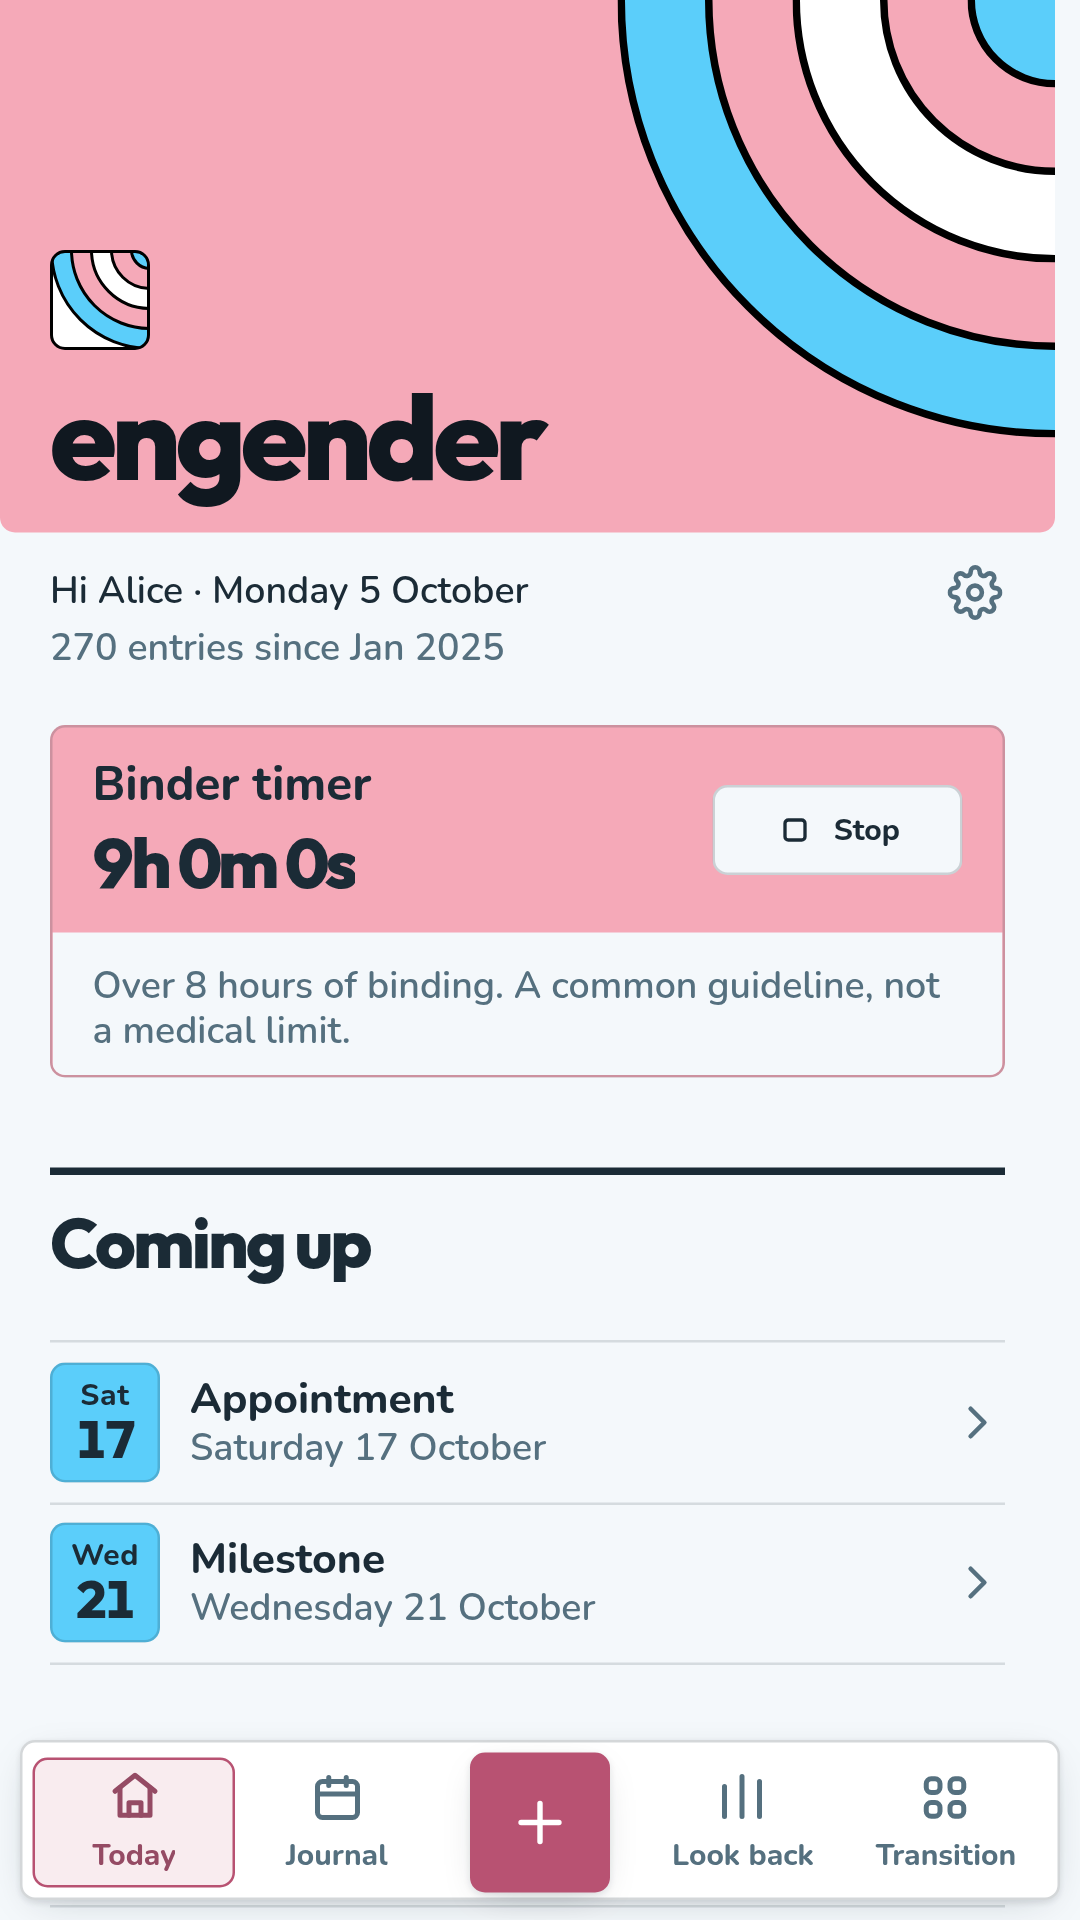
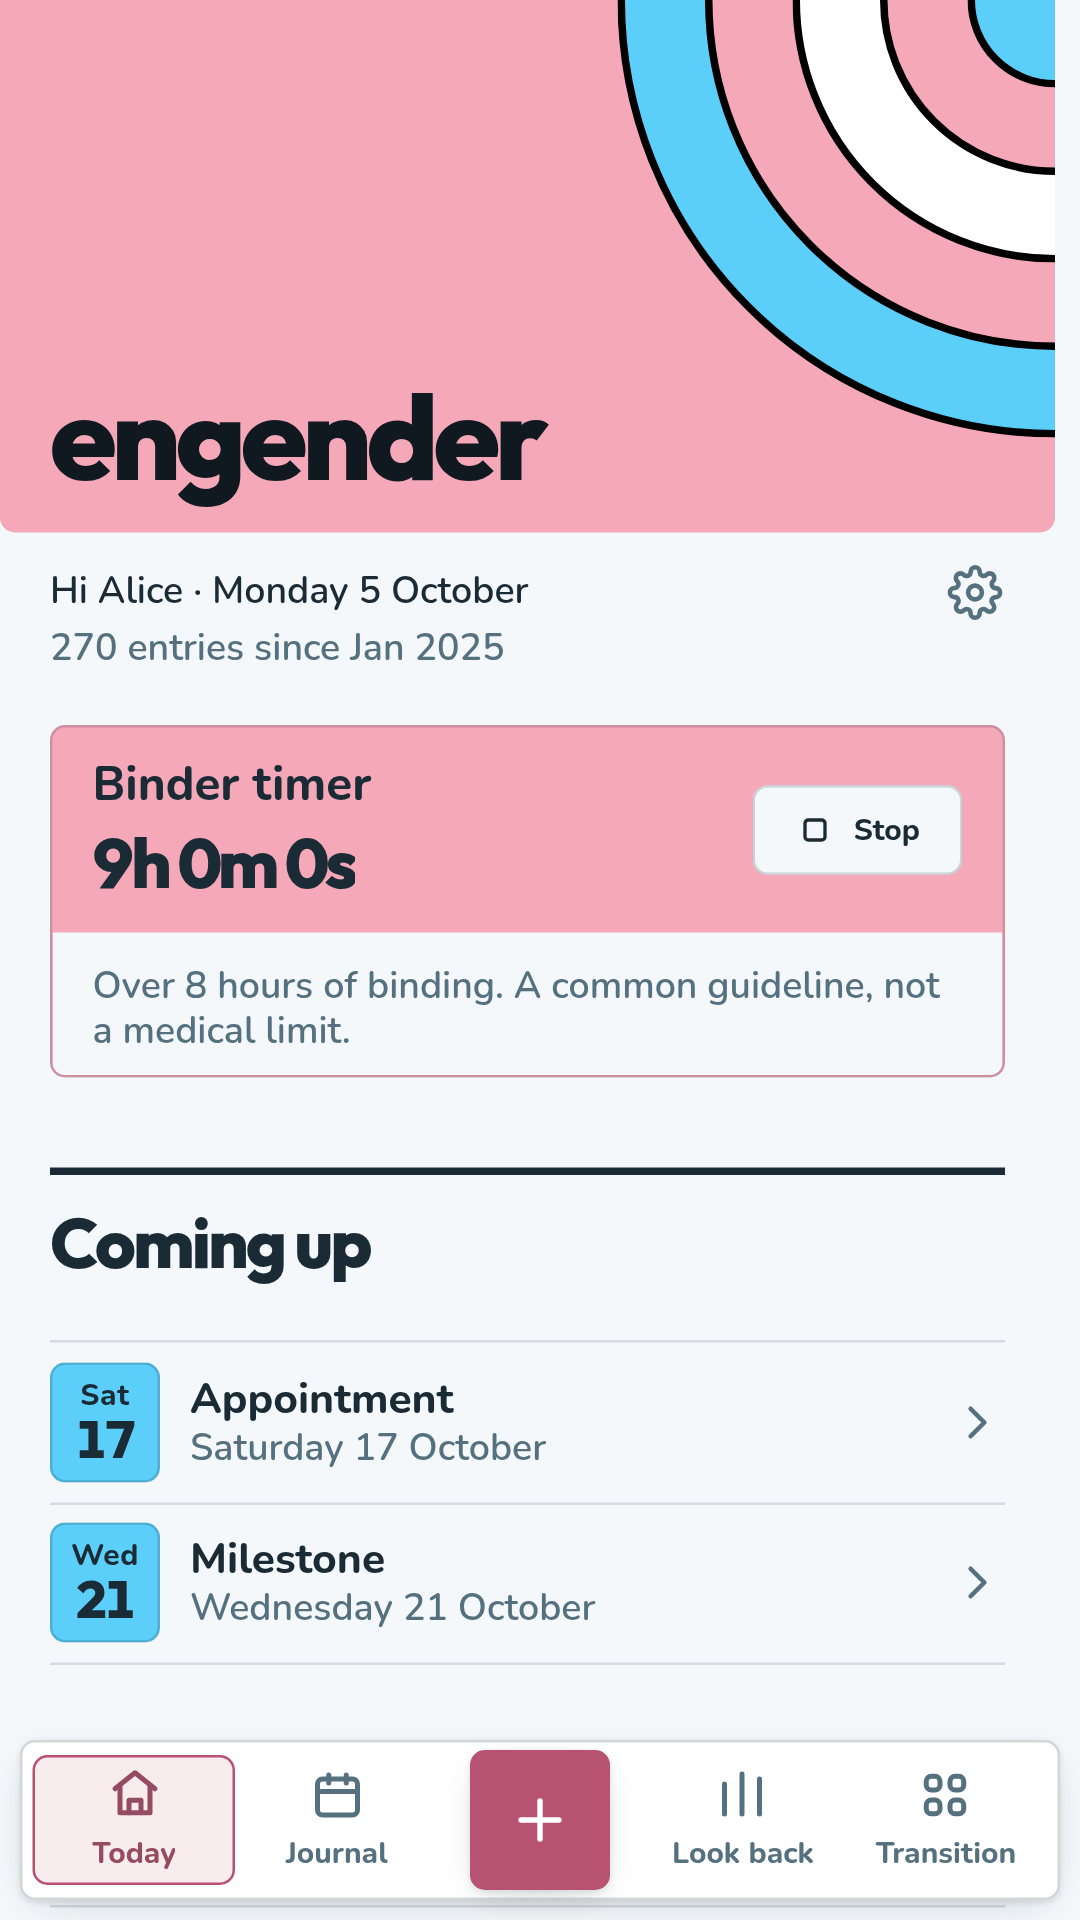
Re-shoot the store screenshots for the transition tracker listing
The listing is being re-pitched from a mood journal to "engender:
transition tracker", but its six screenshots showed no plans and no
voice practice, and spent a slot on the mood calendar. That calendar
shot also carried an untranslated demo role ("Full time") in Polish.

The set is now seven shots per language: Today, Care, a new entry,
the Transition roadmap, Voice on its Compare tab, Look back and
Settings privacy. The entry shot scrolls to the note instead of the
scales, and the note and the feature graphic line now speak about the
transition rather than an afternoon walk. Today no longer shows the
logo mark, because the release UI took it out of the field.

The capture script now settles each shot by condition (finite
animations done, every box still for 600ms, two shots 500ms apart
identical), stubs navigator.storage.persist and persisted so no
storage notice can land on a frame, and empties phoneScreenshots/ so
a dropped name cannot linger in the upload folder. The metadata test
expects the seven new file names; the PNG size checks pass at
1080x1920, 1024x500 and 512x512.

diff --git a/tests/store-listing-assets.test.ts b/tests/store-listing-assets.test.ts
@@ -5,10 +5,10 @@ import { androidVersionCode } from '../scripts/android-version.mjs';
 const root = new URL('../fastlane/metadata/android/', import.meta.url);
 
 describe('store listing metadata', () => {
-  it('ships six phone screens and store artwork at the required pixel sizes', () => {
+  it('ships seven phone screens and store artwork at the required pixel sizes', () => {
     for (const locale of ['en-US', 'pl-PL']) {
       const screenshots = readdirSync(new URL(`${locale}/images/phoneScreenshots/`, root)).sort();
-      expect(screenshots).toEqual(['01-home.png', '02-new-entry.png', '03-journal.png', '04-care.png', '05-look-back.png', '06-settings-privacy.png']);
+      expect(screenshots).toEqual(['01-home.png', '02-care.png', '03-new-entry.png', '04-roadmap.png', '05-voice.png', '06-look-back.png', '07-settings-privacy.png']);
       for (const [file, width, height] of [
         ['icon.png', 512, 512], ['featureGraphic.png', 1024, 500],
         ...screenshots.map((file) => [`phoneScreenshots/${file}`, 1080, 1920] as const)

diff --git a/fastlane/README.md b/fastlane/README.md
@@ -7,7 +7,7 @@ Changelogs summarize `CHANGELOG.md`; their filenames are Android version
 codes, so `1.0.0` maps to `1000000999.txt` through
 `scripts/android-version.mjs`.
 
-Regenerate the graphics and all six phone screenshots per language from
+Regenerate the graphics and all seven phone screenshots per language from
 this checkout:
 
 ```sh
@@ -22,9 +22,15 @@ opens an existing browser profile. A production build without demo controls
 fails before screenshot capture.
 
 Screenshots are 1080 × 1920 PNGs, in the default trans palette and light
-theme. Their order is Home, new entry, Journal, Care, Look back and Settings
-privacy. The entry screenshot is scrolled to its filled scales; Journal shows
-the previous month expanded. Feature graphics are 1024 × 500 PNGs. The script also copies the
+theme. Their order is Today, Care, new entry, Transition roadmap, Voice
+(Compare tab), Look back and Settings privacy, so the set covers the
+transition areas the description names: HRT records, the journal, plans,
+voice practice and looking back. The entry screenshot is scrolled to its
+note, with the first scale and the mood bar under it. Each capture waits
+until finite animations are done and every box has held still for 600ms,
+then keeps a shot only when two taken 500ms apart match. The script empties
+`phoneScreenshots/` first, so a shot dropped from its list does not stay
+behind. Feature graphics are 1024 × 500 PNGs. The script also copies the
 existing brand icons into the PWA assets and rasterizes the neutral disguise
 icons from their existing SVGs.
 
